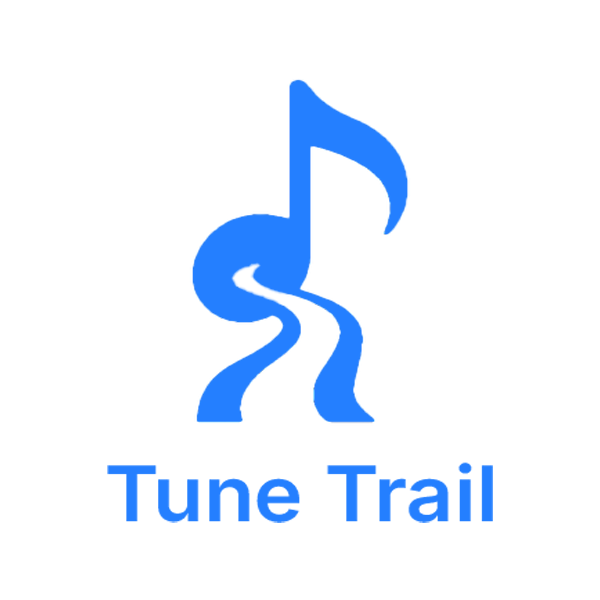
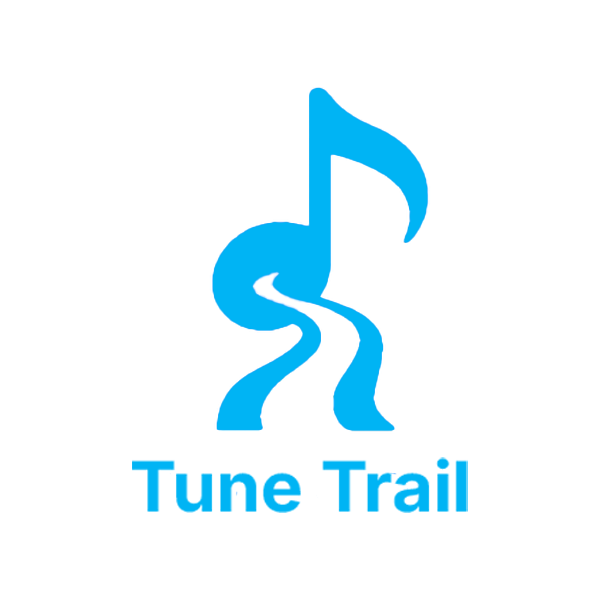
nova paleta de cores

Changed region(s): [[0.3, 0.12, 0.72, 0.72], [0.18, 0.75, 0.51, 0.87], [0.54, 0.75, 0.84, 0.87]]

diff --git a/lib/view/cadastro.dart b/lib/view/cadastro.dart
@@ -45,7 +45,7 @@ class _CadastroScreenState extends State<CadastroScreen> {
         _dataNascController.text,
         _generoController.text,
         _emailController.text,
-        _senhaController.text
+        _senhaController.text,
       );
 
       ScaffoldMessenger.of(context).hideCurrentSnackBar();
@@ -90,14 +90,14 @@ class _CadastroScreenState extends State<CadastroScreen> {
     return Scaffold(
       appBar: AppBar(
         leading: IconButton(
-          icon: Icon(Icons.arrow_back, color: Color(0xff247FFF)),
+          icon: Icon(Icons.arrow_back, color: Color(0xFF34B3F1)),
           onPressed: () => Navigator.of(context).pop(),
         ),
-        backgroundColor: Color(0xff0A0A0A),
+        backgroundColor: Color(0xFF202022),
         elevation: 0,
       ),
       body: Container(
-        color: const Color(0xff0A0A0A),
+        color: const Color(0xFF202022),
         child: Center(
           child: SingleChildScrollView(
             padding: const EdgeInsets.all(24.0),
@@ -111,7 +111,7 @@ class _CadastroScreenState extends State<CadastroScreen> {
                     style: GoogleFonts.inter(
                       fontSize: 40,
                       fontWeight: FontWeight.bold,
-                      color: Color(0xff247FFF),
+                      color: Color(0xFF34B3F1),
                     ),
                   ),
                   const SizedBox(height: 40),
@@ -175,14 +175,14 @@ class _CadastroScreenState extends State<CadastroScreen> {
                             ),
                   ),
                   const SizedBox(height: 30),
-                  const Divider(color: Colors.blueAccent, height: 30),
+                  const Divider(color: Color(0xFF34B3F1), height: 30),
                   const SizedBox(height: 20),
                   SizedBox(
                     width: double.infinity,
                     child: ElevatedButton(
                       onPressed: _handleCadastro,
                       style: ElevatedButton.styleFrom(
-                        backgroundColor: Color(0xff247FFF),
+                        backgroundColor: Color(0xFF34B3F1),
                         padding: const EdgeInsets.symmetric(vertical: 16),
                         shape: RoundedRectangleBorder(
                           borderRadius: BorderRadius.circular(8),
@@ -206,7 +206,7 @@ class _CadastroScreenState extends State<CadastroScreen> {
                     child: Text(
                       'Já tem uma conta? Faça login',
                       style: GoogleFonts.inter(
-                        color: Color(0xff247FFF),
+                        color: Color(0xFF34B3F1),
                         fontWeight: FontWeight.w500,
                       ),
                     ),
@@ -232,7 +232,7 @@ class _CadastroScreenState extends State<CadastroScreen> {
       controller: controller,
       obscureText: isPassword,
       style: const TextStyle(color: Color(0xffF2F2F2)),
-      cursorColor: Color(0xff6CA0DC),
+      cursorColor: Color(0xFF34B3F1),
       keyboardType: keyboardType,
       decoration: InputDecoration(
         labelText: label,
@@ -251,7 +251,7 @@ class _CadastroScreenState extends State<CadastroScreen> {
           borderSide: BorderSide(color: Colors.red, width: 2),
         ),
         filled: true,
-        fillColor: Color(0xff10100E),
+        fillColor: Color.fromARGB(255, 102, 102, 102),
         contentPadding: const EdgeInsets.symmetric(
           vertical: 16,
           horizontal: 20,
@@ -284,10 +284,13 @@ class _CadastroScreenState extends State<CadastroScreen> {
           borderSide: BorderSide(color: Colors.red, width: 1),
         ),
         focusedErrorBorder: const OutlineInputBorder(
-          borderSide: BorderSide(color: Colors.red, width: 2),
+          borderSide: BorderSide(
+            color: Color.fromARGB(255, 11, 11, 11),
+            width: 2,
+          ),
         ),
         filled: true,
-        fillColor: Color(0xff10100E),
+        fillColor: Color.fromARGB(255, 102, 102, 102),
         contentPadding: const EdgeInsets.symmetric(
           vertical: 16,
           horizontal: 20,
@@ -295,7 +298,7 @@ class _CadastroScreenState extends State<CadastroScreen> {
       ),
       value: controller.text.isEmpty ? null : controller.text,
       icon: const Icon(Icons.arrow_drop_down, color: Color(0xffF2F2F2)),
-      dropdownColor: Color(0xff10100E),
+      dropdownColor: Color.fromARGB(255, 102, 102, 102),
       style: const TextStyle(color: Color(0xffF2F2F2)),
       onChanged: (String? value) {
         controller.text = value ?? '';

diff --git a/lib/view/login.dart b/lib/view/login.dart
@@ -71,7 +71,7 @@ class _LoginScreenState extends State<LoginScreen> {
   Widget build(BuildContext context) {
     return Scaffold(
       body: Container(
-        color: const Color(0xff0A0A0A),
+        color: const Color(0xFF202022),
         child: Center(
           child: SingleChildScrollView(
             padding: const EdgeInsets.all(24.0),
@@ -83,7 +83,7 @@ class _LoginScreenState extends State<LoginScreen> {
                   Image.asset(
                     'lib/assets/tunetrail_banner.png',
                     width: 600,
-                    height: 300,
+                    height: 320,
                   ),
 
                   _buildTextFormField(
@@ -124,13 +124,15 @@ class _LoginScreenState extends State<LoginScreen> {
                         shape: RoundedRectangleBorder(
                           borderRadius: BorderRadius.circular(8),
                         ),
-                        backgroundColor: const Color(0xff247FFF),
+                        backgroundColor: const Color(0xFF34B3F1),
+                        elevation: 2,
                       ),
                       child: const Text(
                         'Entrar',
                         style: TextStyle(
-                          color: Color(0xffF2F2F2),
+                          color: Color(0xFFFFFFFF),
                           fontSize: 18,
+                          fontWeight: FontWeight.bold,
                         ),
                       ),
                     ),
@@ -149,7 +151,7 @@ class _LoginScreenState extends State<LoginScreen> {
                     },
                     child: const Text(
                       'Esqueci minha senha',
-                      style: TextStyle(color: Color(0xffF2F2F2)),
+                      style: TextStyle(color: Color(0xFF34B3F1)),
                     ),
                   ),
                   const SizedBox(height: 0),
@@ -202,7 +204,7 @@ class _LoginScreenState extends State<LoginScreen> {
                         child: const Text(
                           'Cadastre-se',
                           style: TextStyle(
-                            color: Color(0xff247FFF),
+                            color: Color(0xFF34B3F1),
                             fontWeight: FontWeight.bold,
                             decoration: TextDecoration.underline,
                           ),
@@ -231,25 +233,32 @@ class _LoginScreenState extends State<LoginScreen> {
       controller: controller,
       obscureText: isPassword,
       keyboardType: keyboardType,
-      style: const TextStyle(color: Colors.white),
+      style: const TextStyle(color: Color.fromARGB(255, 255, 255, 255)),
       decoration: InputDecoration(
         labelText: label,
-        labelStyle: const TextStyle(color: Color(0xffF2F2F2)),
+        labelStyle: const TextStyle(
+          color: Color(0xffF2F2F2),
+          fontWeight: FontWeight.bold,
+        ),
         prefixIcon: Icon(icon, color: const Color(0xffF2F2F2)),
+        errorStyle: const TextStyle(
+          color: Colors.red,
+          fontWeight: FontWeight.bold,
+        ),
         enabledBorder: const OutlineInputBorder(
           borderSide: BorderSide(color: Color(0xff303131)),
         ),
         focusedBorder: const OutlineInputBorder(
-          borderSide: BorderSide(color: Colors.white),
+          borderSide: BorderSide(color: Color(0xFF34B3F1)),
         ),
         errorBorder: const OutlineInputBorder(
-          borderSide: BorderSide(color: Colors.red, width: 1),
+          borderSide: BorderSide(color: Colors.red, width: 2),
         ),
         focusedErrorBorder: const OutlineInputBorder(
           borderSide: BorderSide(color: Colors.red, width: 2),
         ),
         filled: true,
-        fillColor: const Color(0xff10100E),
+        fillColor: const Color.fromARGB(255, 102, 102, 102),
       ),
       validator: validator,
       autovalidateMode: AutovalidateMode.onUserInteraction,

diff --git a/lib/view/home_screen.dart b/lib/view/home_screen.dart
@@ -81,20 +81,20 @@ class HomeScreen extends StatelessWidget {
   @override
   Widget build(BuildContext context) {
     return Scaffold(
-      backgroundColor: const Color(0xff0A0A0A),
+      backgroundColor: const Color(0xFF202022),
       appBar: AppBar(
         backgroundColor: const Color(0xff0A0A0A),
         elevation: 0,
         title: Row(
           children: <Widget>[
-            const Icon(Icons.music_note, color: Color(0xff247FFF)),
+            const Icon(Icons.music_note, color: Color(0xFF34B3F1)),
             const SizedBox(width: 2),
             Text(
               'TuneTrail',
               style: GoogleFonts.inter(
                 fontSize: 24,
                 fontWeight: FontWeight.bold,
-                color: const Color(0xff247FFF),
+                color: const Color(0xFF34B3F1),
               ),
             ),
           ],
@@ -128,9 +128,9 @@ class HomeScreen extends StatelessWidget {
         ],
       ),
       bottomNavigationBar: BottomNavigationBar(
-        backgroundColor: const Color(0xff0A0A0A),
+        backgroundColor: const Color(0xFF202022),
         type: BottomNavigationBarType.fixed,
-        selectedItemColor: const Color(0xff247FFF),
+        selectedItemColor: const Color(0xFF34B3F1),
         unselectedItemColor: Colors.grey,
         currentIndex: 0,
         items: const <BottomNavigationBarItem>[
@@ -158,7 +158,7 @@ class HomeScreen extends StatelessWidget {
       style: GoogleFonts.inter(
         fontSize: 18,
         fontWeight: FontWeight.w600,
-        color: Colors.white,
+        color: Color(0xffF2F2F2),
       ),
     );
   }
@@ -195,13 +195,13 @@ class HomeScreen extends StatelessWidget {
                     decoration: BoxDecoration(
                       color:
                           cardType == CardType.eventos
-                              ? const Color(0xff247FFF)
-                              : const Color(0xff181818),
+                              ? const Color(0xFF34B3F1)
+                              : const Color(0xFF202022),
                       borderRadius: BorderRadius.circular(8.0),
                       border:
                           cardType != CardType.eventos
                               ? Border.all(
-                                color: const Color(0xff303131),
+                                color: const Color(0xFF878787),
                                 width: 1,
                               )
                               : null,
